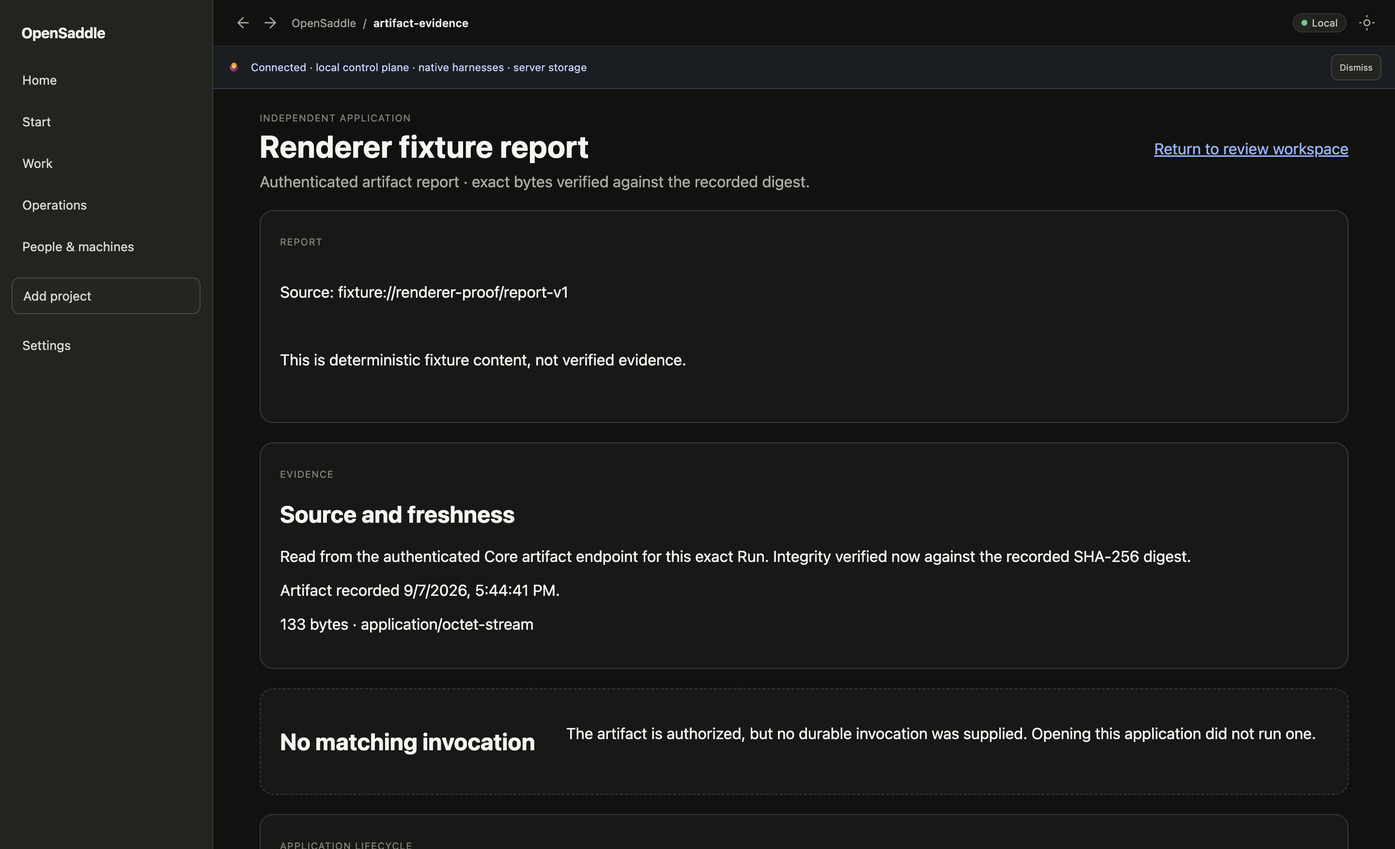
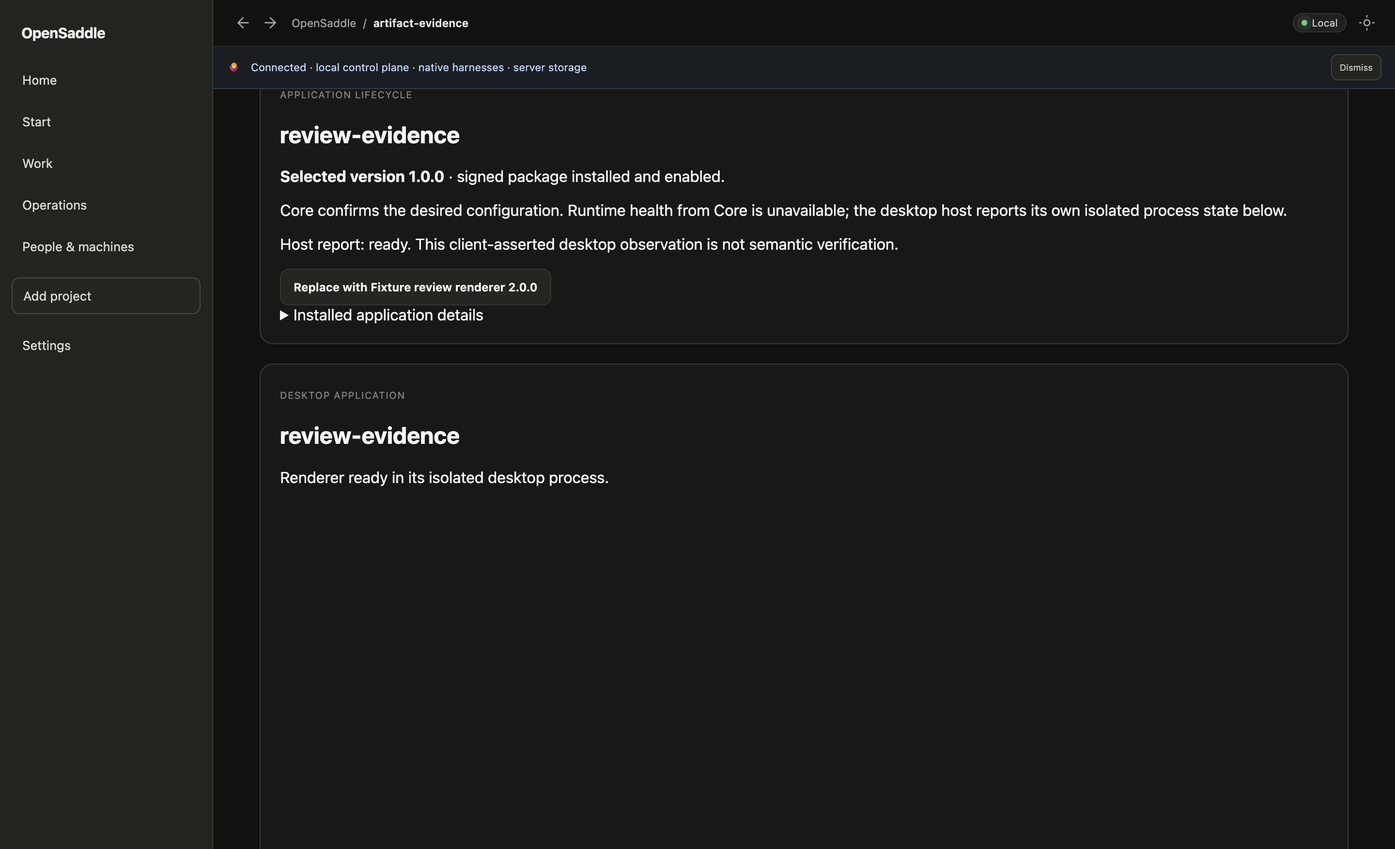
Recover renderer host observations safely

diff --git a/src/applications/CanonicalRendererLifecycle.tsx b/src/applications/CanonicalRendererLifecycle.tsx
@@ -18,14 +18,22 @@ type Ready = {
   hostGeneration?: number
   reportedHostState?: 'loading' | 'ready' | 'error'
   reportedHostError?: string
+  hostRestart?: number
   allowStateTransfer: boolean
   stateNotice?: string
   initialState?: ApplicationState
 }
 type State = { kind: 'loading' } | { kind: 'unavailable'; reason: string } | ({ kind: 'ready' } & Ready)
+type HostReporter = { key: string; active: boolean; sequence: number; lastRequested?: 'loading' | 'ready' | 'error'; heartbeat?: ReturnType<typeof setTimeout>; session: Promise<{ session_id: string; report_token: string; next_sequence: number }>; chain: Promise<void>; report: (state: 'loading' | 'ready' | 'error', heartbeat?: boolean) => void }
 const samePackage = (a: { package_id: string; version: string; manifest_digest: string }, b: { package_id: string; version: string; manifest_digest: string }) => a.package_id === b.package_id && a.version === b.version && a.manifest_digest === b.manifest_digest
 const packageKey = (value: { package_id: string; version: string; manifest_digest: string }) => `${value.package_id}\0${value.version}\0${value.manifest_digest}`
 const errorText = (reason: unknown) => reason instanceof Error ? reason.message : String(reason)
+const hostObservationErrorText = (reason: unknown) => {
+  const detail = errorText(reason)
+  if (detail.includes('renderer_host_observation_stale')) return 'Core rejected a stale host report. Rechecking the current host session.'
+  if (detail.includes('renderer_host_session')) return 'The host observation session is no longer current. Rechecking authority.'
+  return detail
+}
 
 function replacementStateContract(current: ApplicationRendererDescriptor, candidate: ApplicationRendererCandidate, state?: ApplicationState) {
   try {
@@ -66,13 +74,16 @@ export function CanonicalRendererLifecycle({ client, resource, projection, conne
   const stateAuthority = useRef('')
   const activeRenderer = useRef<ApplicationRendererDescriptor | undefined>(undefined)
   const hostId = useRef(`desktop:${crypto.randomUUID()}`)
-  const observation = useRef<{ key: string; active: boolean; sequence: number; lastRequested?: 'loading' | 'ready' | 'error'; heartbeat?: ReturnType<typeof setTimeout>; session: Promise<{ session_id: string; report_token: string; next_sequence: number }>; chain: Promise<void>; report: (state: 'loading' | 'ready' | 'error', heartbeat?: boolean) => void } | undefined>(undefined)
+  const observation = useRef<HostReporter | undefined>(undefined)
+  const currentHostStatus = useRef<'loading' | 'ready' | 'error'>('loading')
+  const hostRestarts = useRef(0)
   const [state, setState] = useState<State>({ kind: 'loading' })
 
   const authorityKey = `${connectionKey}\0${resource.project_id}\0${resource.run_id}\0${resource.artifact_id}\0${resource.digest}\0${applicationId}\0${instanceId}`
   if (stateAuthority.current !== authorityKey) {
     stateAuthority.current = authorityKey
     rendererStates.current.clear()
+    hostRestarts.current = 0
   }
 
   const load = useCallback(async (previous?: Ready['previous'], restoreSnapshot = false) => {
@@ -115,39 +126,80 @@ export function CanonicalRendererLifecycle({ client, resource, projection, conne
   const observationKey = state.kind === 'ready' && state.hostGeneration
     ? `${authorityKey}\0${state.renderer.package_ref.package_id}\0${state.renderer.package_ref.version}\0${state.renderer.package_ref.manifest_digest}\0${state.environment.revision}\0${state.environment.definition_digest}\0${state.hostGeneration}`
     : ''
+  currentHostStatus.current = state.kind === 'ready' ? state.hostStatus : 'loading'
   useEffect(() => {
     if (!observationKey || state.kind !== 'ready' || !client.createRendererHostSession || !client.reportRendererHostObservation) return
     const captured = state
-    const reporter = {
-      key: observationKey,
-      active: true,
-      sequence: 0,
-      lastRequested: undefined as 'loading' | 'ready' | 'error' | undefined,
-      heartbeat: undefined as ReturnType<typeof setTimeout> | undefined,
-      session: client.createRendererHostSession(resource.project_id, { host_id: hostId.current, application_id: captured.renderer.application_id, instance_id: captured.renderer.instance_id, package_ref: captured.renderer.package_ref, environment_revision: captured.environment.revision, environment_definition_digest: captured.environment.definition_digest, generation: captured.hostGeneration! }),
-      chain: Promise.resolve(),
-      report: (_next: 'loading' | 'ready' | 'error', _heartbeat?: boolean) => {},
+    let cancelled = false
+    let retryTimer: ReturnType<typeof setTimeout> | undefined
+    const start = () => {
+      if (cancelled) return
+      const reporter: HostReporter = {
+        key: observationKey, active: true, sequence: 0,
+        session: client.createRendererHostSession!(resource.project_id, { host_id: hostId.current, application_id: captured.renderer.application_id, instance_id: captured.renderer.instance_id, package_ref: captured.renderer.package_ref, environment_revision: captured.environment.revision, environment_definition_digest: captured.environment.definition_digest, generation: captured.hostGeneration! }),
+        chain: Promise.resolve(), report: () => {},
+      }
+      reporter.report = (next, heartbeat = false) => {
+        if (!heartbeat && reporter.lastRequested === next) return
+        reporter.lastRequested = next
+        if (reporter.heartbeat) clearTimeout(reporter.heartbeat)
+        reporter.chain = reporter.chain.then(async () => {
+          const session = await reporter.session
+          if (!reporter.active || observation.current !== reporter) return
+          if (reporter.sequence === 0) reporter.sequence = session.next_sequence
+          const sequence = reporter.sequence
+          await client.reportRendererHostObservation!(session.session_id, session.report_token, { sequence, state: next, ...(next === 'error' ? { error_code: 'renderer_unavailable' } : {}) })
+          reporter.sequence = sequence + 1
+          if (!reporter.active || observation.current !== reporter) return
+          if (next !== 'ready' || currentHostStatus.current === 'ready') {
+            setState(value => value.kind === 'ready' && observationKey === reporter.key ? { ...value, reportedHostState: next, reportedHostError: undefined } : value)
+          }
+          if (next === 'ready') hostRestarts.current = 0
+          if (next === 'ready' && currentHostStatus.current === 'ready' && reporter.lastRequested === 'ready') {
+            reporter.heartbeat = setTimeout(() => {
+              if (currentHostStatus.current === 'ready' && reporter.lastRequested === 'ready') reporter.report('ready', true)
+            }, 10_000)
+          }
+        }).catch(reason => {
+          if (!reporter.active || observation.current !== reporter) return
+          if (reporter.heartbeat) clearTimeout(reporter.heartbeat)
+          setState(value => value.kind === 'ready' && observationKey === reporter.key ? { ...value, reportedHostState: undefined, reportedHostError: hostObservationErrorText(reason) } : value)
+          const failedSequence = reporter.sequence
+          const failedState = reporter.lastRequested!
+          const reconcile = async (attempt: number) => {
+            if (!reporter.active || observation.current !== reporter || currentHostStatus.current === 'error' || !client.rendererHostObservations) return
+            try {
+              const rows = await client.rendererHostObservations(resource.project_id)
+              const session = await reporter.session
+              const row = rows.items.find(item => item.session_id === session.session_id)
+              if (!row || row.state === 'unknown') {
+                reporter.active = false
+                const canRestart = hostRestarts.current < 1
+                if (canRestart) hostRestarts.current++
+                setState(value => value.kind === 'ready' && observationKey === reporter.key ? { ...value, ...(canRestart ? { hostRestart: (value.hostRestart ?? 0) + 1 } : {}), reportedHostState: undefined, reportedHostError: canRestart ? 'The prior host observation session expired. Restarting the isolated renderer.' : 'The host observation session remains unavailable. Retry by reopening this application.' } : value)
+                return
+              }
+              if (row.sequence >= failedSequence) {
+                reporter.sequence = row.sequence + 1
+                setState(value => value.kind === 'ready' && observationKey === reporter.key ? { ...value, reportedHostState: failedState, reportedHostError: undefined } : value)
+                if (failedState === 'ready') reporter.heartbeat = setTimeout(() => reporter.report('ready', true), 10_000)
+                return
+              }
+              reporter.chain = Promise.resolve()
+              reporter.lastRequested = undefined
+              reporter.report(failedState, true)
+            } catch {
+              if (attempt < 3 && reporter.active && observation.current === reporter) retryTimer = setTimeout(() => void reconcile(attempt + 1), attempt * 1_000)
+            }
+          }
+          retryTimer = setTimeout(() => void reconcile(1), 1_000)
+        })
+      }
+      observation.current = reporter
+      reporter.report(currentHostStatus.current)
     }
-    reporter.report = (next, heartbeat = false) => {
-      if (!heartbeat && reporter.lastRequested === next) return
-      reporter.lastRequested = next
-      if (reporter.heartbeat) clearTimeout(reporter.heartbeat)
-      reporter.chain = reporter.chain.then(async () => {
-        const session = await reporter.session
-        if (!reporter.active || observation.current !== reporter) return
-        if (reporter.sequence === 0) reporter.sequence = session.next_sequence
-        await client.reportRendererHostObservation!(session.session_id, session.report_token, { sequence: reporter.sequence++, state: next, ...(next === 'error' ? { error_code: 'renderer_unavailable' } : {}) })
-        if (!reporter.active || observation.current !== reporter) return
-        setState(value => value.kind === 'ready' && observationKey === reporter.key ? { ...value, reportedHostState: next, reportedHostError: undefined } : value)
-        if (next === 'ready') reporter.heartbeat = setTimeout(() => reporter.report('ready', true), 10_000)
-      }).catch(reason => {
-        if (!reporter.active || observation.current !== reporter) return
-        setState(value => value.kind === 'ready' && observationKey === reporter.key ? { ...value, reportedHostError: errorText(reason) } : value)
-      })
-    }
-    observation.current = reporter
-    reporter.report('loading')
-    return () => { reporter.active = false; if (reporter.heartbeat) clearTimeout(reporter.heartbeat); if (observation.current === reporter) observation.current = undefined }
+    start()
+    return () => { cancelled = true; if (retryTimer) clearTimeout(retryTimer); const reporter = observation.current; if (reporter?.key === observationKey) { reporter.active = false; if (reporter.heartbeat) clearTimeout(reporter.heartbeat); observation.current = undefined } }
   }, [client, observationKey, resource.project_id])
   useEffect(() => {
     const reporter = observation.current
@@ -239,6 +291,6 @@ export function CanonicalRendererLifecycle({ client, resource, projection, conne
   const alternatives = state.candidates.filter(candidate => candidate.available.available && !samePackage({ package_id: candidate.package_id, version: candidate.package_version, manifest_digest: candidate.manifest_digest }, state.renderer.package_ref))
   return <>
     <section className="cc-panel"><span className="eyebrow">Application lifecycle</span><h2>{state.renderer.application_id}</h2><p><strong>Selected version {state.renderer.package_ref.version}</strong> · signed package installed and enabled.</p><p>Core confirms the desired configuration. Runtime health from Core is unavailable; the desktop host reports its own isolated process state below.</p>{state.reportedHostState && <p role="status">Host report: {state.reportedHostState}. This client-asserted desktop observation is not semantic verification.</p>}{state.reportedHostError && <p role="alert">Host observation unavailable: {state.reportedHostError}</p>}{state.stateNotice && <p role="status">{state.stateNotice}</p>}{alternatives.length > 0 && <div className="page-actions">{alternatives.map(candidate => <button key={`${candidate.package_id}:${candidate.package_version}`} className="secondary-btn" disabled={state.pending} onClick={() => void replace(candidate)}>Replace with {candidate.title} {candidate.package_version}</button>)}</div>}{state.hostStatus === 'error' && state.previous && <div role="alert"><p>The replacement did not become ready in the desktop host.</p><button className="primary-btn" disabled={state.pending} onClick={() => void rollback()}>Restore previous version</button></div>}{state.error && <p role="alert">{state.error}</p>}<details><summary>Installed application details</summary><p>Environment revision {state.environment.revision} · package <code>{state.renderer.package_ref.package_id}@{state.renderer.package_ref.version}</code></p>{state.candidates.map(candidate => <p key={`${candidate.package_id}:${candidate.package_version}`}><code>{candidate.package_version}</code> · {candidate.enablement?.version === candidate.package_version && candidate.enablement.status === 'enabled' ? 'enabled' : 'installed'} · Core runtime health unavailable</p>)}</details></section>
-    <DesktopApplicationHost client={client} projectId={resource.project_id} manifest={state.renderer} connectionKey={connectionKey} projection={projection} onStatus={observeHostStatus} onState={observeRendererState} initialState={state.initialState} allowStateTransfer={state.allowStateTransfer} />
+    <DesktopApplicationHost client={client} projectId={resource.project_id} manifest={state.renderer} connectionKey={connectionKey} projection={projection} onStatus={observeHostStatus} onState={observeRendererState} initialState={state.initialState} allowStateTransfer={state.allowStateTransfer} restartGeneration={state.hostRestart ?? 0} />
   </>
 }

diff --git a/src/applications/CanonicalRendererLifecycle.test.tsx b/src/applications/CanonicalRendererLifecycle.test.tsx
@@ -114,12 +114,20 @@ test('mounted replacement validates and freezes the actual saved state before en
 
 test('desktop lifecycle reports loading, ready, and error with the exact native generation', async () => {
   const oldWindow = globalThis.window
+  const originalSetTimeout = globalThis.setTimeout
+  const heartbeats: Array<() => void> = []
+  globalThis.setTimeout = ((handler: TimerHandler, delay?: number, ...args: any[]) => {
+    if (delay === 10_000) { heartbeats.push(() => typeof handler === 'function' && handler(...args)); return 999_999 as any }
+    return originalSetTimeout(handler, delay, ...args)
+  }) as typeof setTimeout
   const fragment = '<p>health renderer</p>'
   const contentDigest = createHash('sha256').update(fragment).digest('hex')
   const current = { ...renderer('1'), content_digest: contentDigest, size: fragment.length }
   const listeners: Array<(event: any) => void> = []
   const requests: any[] = []
   const reports: Array<{ sequence: number; state: string; error_code?: string }> = []
+  let releaseReady!: () => void
+  const readyAck = new Promise<void>(resolve => { releaseReady = resolve })
   Object.assign(globalThis, { window: { opensaddleDesktop: true, opensaddle: {
     onApplicationRendererEvent: (listener: (event: any) => void) => { listeners.push(listener); return () => {} },
     openApplicationRenderer: async (request: any) => { requests.push(request); return { identity: [request.connectionKey, request.instanceId, request.generation, request.packageRef.package_id, request.packageRef.version, request.packageRef.manifest_digest, request.contentDigest, request.projection.resource.project_id, request.projection.resource.run_id, request.projection.resource.artifact_id, request.projection.resource.digest].join('\0'), rendererPid: 2 } },
@@ -132,7 +140,7 @@ test('desktop lifecycle reports loading, ready, and error with the exact native 
     applicationRendererContent: async () => new Response(fragment, { headers: { 'Content-Type': current.media_type, 'Content-Length': String(fragment.length) } }),
     environment: async () => environment(1, '1'),
     createRendererHostSession: async () => ({ session_id: 'rhs_1', report_token: 'opaque', expires_at: 'later', next_sequence: 4, host_identity_authority: 'client_asserted' as const }),
-    reportRendererHostObservation: async (_session: string, _token: string, input: { sequence: number; state: 'loading' | 'ready' | 'error'; error_code?: string }) => { reports.push(input); return {} },
+    reportRendererHostObservation: async (_session: string, _token: string, input: { sequence: number; state: 'loading' | 'ready' | 'error'; error_code?: string }) => { reports.push(input); if (input.state === 'ready') await readyAck; return {} },
   } as unknown as MalleableShellClient
   let view!: ReactTestRenderer
   await act(async () => { view = create(<CanonicalRendererLifecycle client={client} resource={resource} projection={projection} connectionKey="owner" />, { createNodeMock: () => ({ getBoundingClientRect: () => ({ x: 0, y: 0, width: 500, height: 320 }) }) }) })
@@ -142,13 +150,104 @@ test('desktop lifecycle reports loading, ready, and error with the exact native 
   await act(async () => listeners[0]({ identity, instanceId: request.instanceId, generation: request.generation, kind: 'ready' }))
   await until(() => reports.some(value => value.state === 'ready'))
   await act(async () => listeners[0]({ identity, instanceId: request.instanceId, generation: request.generation, kind: 'error', error: 'renderer_crashed' }))
+  releaseReady()
   await until(() => reports.some(value => value.state === 'error'))
   assert.deepEqual(reports.slice(0, 3), [
     { sequence: 4, state: 'loading' },
     { sequence: 5, state: 'ready' },
     { sequence: 6, state: 'error', error_code: 'renderer_unavailable' },
   ])
+  for (const heartbeat of heartbeats) heartbeat()
+  await act(async () => { await Promise.resolve() })
+  assert.equal(reports.length, 3)
   assert.match(JSON.stringify(view.toJSON()), /client-asserted desktop observation is not semantic verification/i)
+  await act(async () => view.unmount())
+  globalThis.setTimeout = originalSetTimeout
+  globalThis.window = oldWindow
+})
+
+test('an uncertain heartbeat clears stale ready and recovers through a new bounded session', async () => {
+  const oldWindow = globalThis.window
+  const fragment = '<p>health renderer</p>'
+  const contentDigest = createHash('sha256').update(fragment).digest('hex')
+  const current = { ...renderer('1'), content_digest: contentDigest, size: fragment.length }
+  const listeners: Array<(event: any) => void> = []
+  const requests: any[] = []
+  let sessions = 0
+  const reports: Array<{ session: string; sequence: number; state: string }> = []
+  Object.assign(globalThis, { window: { opensaddleDesktop: true, opensaddle: {
+    onApplicationRendererEvent: (listener: (event: any) => void) => { listeners.push(listener); return () => {} },
+    openApplicationRenderer: async (request: any) => { requests.push(request); return { identity: [request.connectionKey, request.instanceId, request.generation, request.packageRef.package_id, request.packageRef.version, request.packageRef.manifest_digest, request.contentDigest, request.projection.resource.project_id, request.projection.resource.run_id, request.projection.resource.artifact_id, request.projection.resource.digest].join('\0'), rendererPid: 2 } },
+    closeApplicationRenderer: async () => true,
+    setApplicationRendererBounds: async () => true,
+  } } })
+  const client = {
+    applicationRenderers: async () => [current], applicationRendererCandidates: async () => [candidate('1')],
+    applicationRendererContent: async () => new Response(fragment, { headers: { 'Content-Type': current.media_type, 'Content-Length': String(fragment.length) } }), environment: async () => environment(1, '1'),
+    createRendererHostSession: async () => { sessions++; return { session_id: 'old', report_token: 'old-token', expires_at: 'later', next_sequence: 7, host_identity_authority: 'client_asserted' as const } },
+    reportRendererHostObservation: async (session: string, _token: string, input: { sequence: number; state: 'loading' | 'ready' | 'error' }) => { reports.push({ session, ...input }); if (session === 'old' && input.sequence === 8) throw Error('temporary offline after commit'); return {} },
+    rendererHostObservations: async () => ({ schema_version: 'opensaddle.renderer-host-observations.v1' as const, project_id: 'P', generated_at: 'now', authority: 'host_reported' as const, semantic_correctness: 'not_verified' as const, items: [{ session_id: 'old', project_id: 'P', subject: 'owner', host_id: 'desktop', application_id: 'review-evidence', instance_id: 'review-main', package_ref: current.package_ref, environment_revision: 1, environment_definition_digest: environment(1, '1').definition_digest, generation: 1, state: 'ready' as const, error_code: null, sequence: 8, updated_at: 'now', expires_at: 'later' }] }),
+  } as unknown as MalleableShellClient
+  let view!: ReactTestRenderer
+  await act(async () => { view = create(<CanonicalRendererLifecycle client={client} resource={resource} projection={projection} connectionKey="owner" />, { createNodeMock: () => ({ getBoundingClientRect: () => ({ x: 0, y: 0, width: 500, height: 320 }) }) }) })
+  await until(() => requests.length === 1 && reports.length === 1)
+  const request = requests[0]
+  const identity = [request.connectionKey, request.instanceId, request.generation, request.packageRef.package_id, request.packageRef.version, request.packageRef.manifest_digest, request.contentDigest, request.projection.resource.project_id, request.projection.resource.run_id, request.projection.resource.artifact_id, request.projection.resource.digest].join('\0')
+  await act(async () => listeners[0]({ identity, instanceId: request.instanceId, generation: request.generation, kind: 'ready' }))
+  await until(() => reports.some(value => value.session === 'old' && value.sequence === 8))
+  assert.doesNotMatch(JSON.stringify(view.toJSON()), /Host report: ready/)
+  assert.match(JSON.stringify(view.toJSON()), /Host observation unavailable:.*temporary offline after commit/)
+  await act(async () => { await new Promise(resolve => setTimeout(resolve, 1_050)) })
+  await until(() => JSON.stringify(view.toJSON()).includes('Host report'))
+  assert.match(JSON.stringify(view.toJSON()), /Host report:.*ready/)
+  assert.equal(reports.filter(value => value.session === 'old' && value.sequence === 8).length, 1)
+  assert.equal(sessions, 1)
+  await act(async () => view.unmount())
+  globalThis.window = oldWindow
+})
+
+test('an expired observation session restarts the native host with a new generation', async () => {
+  const oldWindow = globalThis.window
+  const fragment = '<p>health renderer</p>'
+  const contentDigest = createHash('sha256').update(fragment).digest('hex')
+  const current = { ...renderer('1'), content_digest: contentDigest, size: fragment.length }
+  const listeners: Array<(event: any) => void> = []
+  const requests: any[] = []
+  let sessions = 0
+  const reports: Array<{ session: string; sequence: number; state: string }> = []
+  Object.assign(globalThis, { window: { opensaddleDesktop: true, opensaddle: {
+    onApplicationRendererEvent: (listener: (event: any) => void) => { listeners.push(listener); return () => {} },
+    openApplicationRenderer: async (request: any) => { requests.push(request); return { identity: [request.connectionKey, request.instanceId, request.generation, request.packageRef.package_id, request.packageRef.version, request.packageRef.manifest_digest, request.contentDigest, request.projection.resource.project_id, request.projection.resource.run_id, request.projection.resource.artifact_id, request.projection.resource.digest].join('\0'), rendererPid: 2 } },
+    closeApplicationRenderer: async () => true,
+    setApplicationRendererBounds: async () => true,
+  } } })
+  const client = {
+    applicationRenderers: async () => [current], applicationRendererCandidates: async () => [candidate('1')],
+    applicationRendererContent: async () => new Response(fragment, { headers: { 'Content-Type': current.media_type, 'Content-Length': String(fragment.length) } }), environment: async () => environment(1, '1'),
+    createRendererHostSession: async () => ({ session_id: `session-${++sessions}`, report_token: `token-${sessions}`, expires_at: 'later', next_sequence: 1, host_identity_authority: 'client_asserted' as const }),
+    reportRendererHostObservation: async (session: string, _token: string, input: { sequence: number; state: 'loading' | 'ready' | 'error' }) => { reports.push({ session, ...input }); if (session === 'session-1' && input.state === 'ready') throw Error('session expired'); if (session === 'session-2' && input.state === 'error') throw Error('authority revoked'); return {} },
+    rendererHostObservations: async () => ({ schema_version: 'opensaddle.renderer-host-observations.v1' as const, project_id: 'P', generated_at: 'now', authority: 'host_reported' as const, semantic_correctness: 'not_verified' as const, items: [{ session_id: 'session-1', project_id: 'P', subject: 'owner', host_id: 'desktop', application_id: 'review-evidence', instance_id: 'review-main', package_ref: current.package_ref, environment_revision: 1, environment_definition_digest: environment(1, '1').definition_digest, generation: 1, state: 'unknown' as const, error_code: null, sequence: 1, updated_at: 'now', expires_at: 'past', reason: 'session_expired_or_selection_changed' }] }),
+  } as unknown as MalleableShellClient
+  let view!: ReactTestRenderer
+  await act(async () => { view = create(<CanonicalRendererLifecycle client={client} resource={resource} projection={projection} connectionKey="owner" />, { createNodeMock: () => ({ getBoundingClientRect: () => ({ x: 0, y: 0, width: 500, height: 320 }) }) }) })
+  await until(() => requests.length === 1 && reports.some(value => value.state === 'loading'))
+  const first = requests[0]
+  const firstIdentity = [first.connectionKey, first.instanceId, first.generation, first.packageRef.package_id, first.packageRef.version, first.packageRef.manifest_digest, first.contentDigest, first.projection.resource.project_id, first.projection.resource.run_id, first.projection.resource.artifact_id, first.projection.resource.digest].join('\0')
+  await act(async () => listeners[0]({ identity: firstIdentity, instanceId: first.instanceId, generation: first.generation, kind: 'ready' }))
+  await act(async () => { await new Promise(resolve => setTimeout(resolve, 1_050)) })
+  await until(() => requests.length === 2 && sessions === 2)
+  assert.notEqual(requests[1].generation, first.generation)
+  assert.equal(reports.filter(value => value.session === 'session-1' && value.state === 'ready').length, 1)
+  assert.ok(reports.some(value => value.session === 'session-2' && value.state === 'loading'))
+  const second = requests[1]
+  const secondIdentity = [second.connectionKey, second.instanceId, second.generation, second.packageRef.package_id, second.packageRef.version, second.packageRef.manifest_digest, second.contentDigest, second.projection.resource.project_id, second.projection.resource.run_id, second.projection.resource.artifact_id, second.projection.resource.digest].join('\0')
+  await act(async () => listeners[1]({ identity: secondIdentity, instanceId: second.instanceId, generation: second.generation, kind: 'ready' }))
+  await until(() => reports.some(value => value.session === 'session-2' && value.state === 'ready'))
+  await act(async () => listeners[1]({ identity: secondIdentity, instanceId: second.instanceId, generation: second.generation, kind: 'error' }))
+  await until(() => reports.some(value => value.session === 'session-2' && value.state === 'error'))
+  await act(async () => { await new Promise(resolve => setTimeout(resolve, 20)) })
+  assert.equal(sessions, 2)
+  assert.match(JSON.stringify(view.toJSON()), /Host observation unavailable:.*authority revoked/)
   await act(async () => view.unmount())
   globalThis.window = oldWindow
 })

diff --git a/src/applications/DesktopApplicationHost.test.tsx b/src/applications/DesktopApplicationHost.test.tsx
@@ -13,4 +13,4 @@ const until=async(check:()=>boolean)=>{for(let i=0;i<50&&!check();i++)await new 
 const client=()=>({applicationRendererContent:async()=>new Response(fragment,{headers:{'Content-Type':manifest.media_type,'Content-Length':String(fragment.length)}})})as unknown as MalleableShellClient
 test('desktop ready event registered before open resolution is retained',async()=>{const oldWindow=globalThis.window;let listener:(event:any)=>void=()=>{};Object.assign(globalThis,{window:{opensaddleDesktop:true,opensaddle:{onApplicationRendererEvent:(next:any)=>{listener=next;return()=>{}},openApplicationRenderer:async(request:any)=>{listener({identity:[request.connectionKey,request.instanceId,request.generation,request.packageRef.package_id,request.packageRef.version,request.packageRef.manifest_digest,request.contentDigest,request.projection.resource.project_id,request.projection.resource.run_id,request.projection.resource.artifact_id,request.projection.resource.digest].join('\0'),instanceId:'review-main',generation:request.generation,kind:'ready'});return{identity:'opened',rendererPid:2}},closeApplicationRenderer:async()=>true,setApplicationRendererBounds:async()=>true}}});let view:any;await act(async()=>{view=create(<DesktopApplicationHost client={client()} projectId="p" manifest={manifest} projection={projection} connectionKey="c"/>,{createNodeMock:()=>({getBoundingClientRect:()=>({x:0,y:0,width:500,height:360})})})});await act(async()=>{await new Promise(resolve=>setTimeout(resolve,20))});assert.match(JSON.stringify(view.toJSON()),/Renderer ready/);await act(async()=>view.unmount());globalThis.window=oldWindow})
 test('desktop unmount closes the exact pending generation identity',async()=>{const oldWindow=globalThis.window,closed:string[]=[];Object.assign(globalThis,{window:{opensaddleDesktop:true,opensaddle:{onApplicationRendererEvent:()=>()=>{},openApplicationRenderer:async()=>new Promise(()=>{}),closeApplicationRenderer:async(identity:string)=>{closed.push(identity);return true},setApplicationRendererBounds:async()=>true}}});let view:any;await act(async()=>{view=create(<DesktopApplicationHost client={client()} projectId="p" manifest={manifest} projection={projection} connectionKey="private-c"/>,{createNodeMock:()=>({getBoundingClientRect:()=>({x:0,y:0,width:500,height:360})})})});await act(async()=>view.unmount());assert.equal(closed.length,1);assert.match(closed[0]!,/^private-c\0review-main\0/);globalThis.window=oldWindow})
-test('desktop replacement fences generations and preserves state only for signed compatibility on the same resource',async()=>{const oldWindow=globalThis.window,fragment2='<p>renderer two</p>',manifest2={...manifest,content_digest:createHash('sha256').update(fragment2).digest('hex'),size:fragment2.length,package_ref:{...manifest.package_ref,version:'2'},state_schema_version:2,state_schema:{type:'object' as const,additionalProperties:false as const,maxProperties:3,properties:{search:{type:'string' as const,maxLength:200},pinned:{type:'boolean' as const},layout:{type:'string' as const,maxLength:12}},required:['search','layout']},state_migrations:[{from_version:1,to_version:2,operations:[{op:'rename' as const,from:'filter',to:'search'},{op:'set_default' as const,path:'layout',value:'compact'}]}]};const listeners:Array<(event:any)=>void>=[],requests:any[]=[];Object.assign(globalThis,{window:{opensaddleDesktop:true,opensaddle:{onApplicationRendererEvent:(next:any)=>{listeners.push(next);return()=>{}},openApplicationRenderer:async(request:any)=>{requests.push(request);return{identity:[request.connectionKey,request.instanceId,request.generation,request.packageRef.package_id,request.packageRef.version,request.packageRef.manifest_digest,request.contentDigest,request.projection.resource.project_id,request.projection.resource.run_id,request.projection.resource.artifact_id,request.projection.resource.digest].join('\0'),rendererPid:2}},closeApplicationRenderer:async()=>true,setApplicationRendererBounds:async()=>true}}});const transport={applicationRendererContent:async(_project:string,next:ApplicationRendererDescriptor)=>new Response(next.package_ref.version==='2'?fragment2:fragment,{headers:{'Content-Type':next.media_type,'Content-Length':String(next.size)}})}as unknown as MalleableShellClient;const event=(request:any,state:any)=>({identity:[request.connectionKey,request.instanceId,request.generation,request.packageRef.package_id,request.packageRef.version,request.packageRef.manifest_digest,request.contentDigest,request.projection.resource.project_id,request.projection.resource.run_id,request.projection.resource.artifact_id,request.projection.resource.digest].join('\0'),instanceId:request.instanceId,generation:request.generation,kind:'state',state});let view:any;await act(async()=>{view=create(<DesktopApplicationHost client={transport} projectId="p" manifest={manifest} projection={projection} connectionKey="c"/>,{createNodeMock:()=>({getBoundingClientRect:()=>({x:0,y:0,width:500,height:360})})})});await until(()=>requests.length>=1);listeners[0](event(requests[0],{filter:'open'}));await act(async()=>{view.update(<DesktopApplicationHost client={transport} projectId="p" manifest={manifest2} projection={projection} connectionKey="c" allowStateTransfer/>)});await until(()=>requests.length>=2);assert.deepEqual(requests[1].state,{search:'open',layout:'compact'});listeners[1](event(requests[1],{search:'current',layout:'comfortable'}));listeners[0](event(requests[0],{filter:'stale'}));await act(async()=>{view.update(<DesktopApplicationHost client={transport} projectId="p" manifest={manifest} projection={projection} connectionKey="c" allowStateTransfer/>)});await until(()=>requests.length>=3);assert.deepEqual(requests[2].state,{filter:'open'});assert.equal(new Set(requests.slice(0,3).map(item=>item.generation)).size,3);const other={...projection,resource:{...projection.resource,artifact_id:'other'}};await act(async()=>{view.update(<DesktopApplicationHost client={transport} projectId="p" manifest={manifest} projection={other} connectionKey="c" allowStateTransfer/>)});await until(()=>requests.length>=4);assert.equal(requests[3].state,undefined);await act(async()=>view.unmount());globalThis.window=oldWindow})
+test('desktop replacement fences generations and preserves state only for signed compatibility on the same resource',async()=>{const oldWindow=globalThis.window,fragment2='<p>renderer two</p>',manifest2={...manifest,content_digest:createHash('sha256').update(fragment2).digest('hex'),size:fragment2.length,package_ref:{...manifest.package_ref,version:'2'},state_schema_version:2,state_schema:{type:'object' as const,additionalProperties:false as const,maxProperties:3,properties:{search:{type:'string' as const,maxLength:200},pinned:{type:'boolean' as const},layout:{type:'string' as const,maxLength:12}},required:['search','layout']},state_migrations:[{from_version:1,to_version:2,operations:[{op:'rename' as const,from:'filter',to:'search'},{op:'set_default' as const,path:'layout',value:'compact'}]}]};const listeners:Array<(event:any)=>void>=[],requests:any[]=[];Object.assign(globalThis,{window:{opensaddleDesktop:true,opensaddle:{onApplicationRendererEvent:(next:any)=>{listeners.push(next);return()=>{}},openApplicationRenderer:async(request:any)=>{requests.push(request);return{identity:[request.connectionKey,request.instanceId,request.generation,request.packageRef.package_id,request.packageRef.version,request.packageRef.manifest_digest,request.contentDigest,request.projection.resource.project_id,request.projection.resource.run_id,request.projection.resource.artifact_id,request.projection.resource.digest].join('\0'),rendererPid:2}},closeApplicationRenderer:async()=>true,setApplicationRendererBounds:async()=>true}}});const transport={applicationRendererContent:async(_project:string,next:ApplicationRendererDescriptor)=>new Response(next.package_ref.version==='2'?fragment2:fragment,{headers:{'Content-Type':next.media_type,'Content-Length':String(next.size)}})}as unknown as MalleableShellClient;const event=(request:any,state:any)=>({identity:[request.connectionKey,request.instanceId,request.generation,request.packageRef.package_id,request.packageRef.version,request.packageRef.manifest_digest,request.contentDigest,request.projection.resource.project_id,request.projection.resource.run_id,request.projection.resource.artifact_id,request.projection.resource.digest].join('\0'),instanceId:request.instanceId,generation:request.generation,kind:'state',state});let view:any;await act(async()=>{view=create(<DesktopApplicationHost client={transport} projectId="p" manifest={manifest} projection={projection} connectionKey="c"/>,{createNodeMock:()=>({getBoundingClientRect:()=>({x:0,y:0,width:500,height:360})})})});await until(()=>requests.length>=1);listeners[0](event(requests[0],{filter:'open'}));await act(async()=>{view.update(<DesktopApplicationHost client={transport} projectId="p" manifest={manifest2} projection={projection} connectionKey="c" allowStateTransfer/>)});await until(()=>requests.length>=2);assert.deepEqual(requests[1].state,{search:'open',layout:'compact'});listeners[1](event(requests[1],{search:'current',layout:'comfortable'}));listeners[0](event(requests[0],{filter:'stale'}));await act(async()=>{view.update(<DesktopApplicationHost client={transport} projectId="p" manifest={manifest} projection={projection} connectionKey="c" allowStateTransfer/>)});await until(()=>requests.length>=3);assert.deepEqual(requests[2].state,{filter:'open'});listeners[2](event(requests[2],{filter:'restored'}));await act(async()=>{view.update(<DesktopApplicationHost client={transport} projectId="p" manifest={manifest} projection={projection} connectionKey="c" allowStateTransfer restartGeneration={1}/>)});await until(()=>requests.length>=4);assert.deepEqual(requests[3].state,{filter:'restored'});assert.equal(new Set(requests.slice(0,4).map(item=>item.generation)).size,4);const other={...projection,resource:{...projection.resource,artifact_id:'other'}};await act(async()=>{view.update(<DesktopApplicationHost client={transport} projectId="p" manifest={manifest} projection={other} connectionKey="c" allowStateTransfer restartGeneration={1}/>)});await until(()=>requests.length>=5);assert.equal(requests[4].state,undefined);await act(async()=>view.unmount());globalThis.window=oldWindow})

diff --git a/src/applications/DesktopApplicationHost.tsx b/src/applications/DesktopApplicationHost.tsx
@@ -4,7 +4,7 @@ import{compatibleApplicationState,readExactRenderer,validateRendererState}from'.
 import type{ApplicationRendererDescriptor,MalleableShellClient}from'../services/contracts'
 void React
 let nextDesktopGeneration=0
-export function DesktopApplicationHost({client,projectId,manifest,projection,connectionKey,onStatus,onState,initialState,allowStateTransfer=false}:{client:MalleableShellClient;projectId:string;manifest:ApplicationRendererDescriptor;projection:ApplicationProjection;connectionKey:string;onStatus?:(status:'loading'|'ready'|'error',generation:number)=>void;onState?:(state:Record<string,string|number|boolean>)=>void;initialState?:Record<string,string|number|boolean>;allowStateTransfer?:boolean}){const loadKey=useMemo(()=>[connectionKey,projectId,projection.resource.run_id,projection.resource.artifact_id,projection.resource.digest,manifest.package_ref.version,manifest.package_ref.manifest_digest,manifest.content_digest].join('\0'),[connectionKey,projectId,projection.resource.run_id,projection.resource.artifact_id,projection.resource.digest,manifest]),holder=useRef<HTMLDivElement>(null),activation=useRef({key:'',generation:0}),identity=useRef<string|undefined>(undefined),savedState=useRef<Record<string,string|number|boolean>|undefined>(undefined),snapshots=useRef(new Map<string,Record<string,string|number|boolean>>()),previous=useRef({connectionKey,projectId,resourceKey:[projection.resource.run_id,projection.resource.artifact_id,projection.resource.digest].join('\0'),applicationId:manifest.application_id,instanceId:manifest.instance_id,manifest,packageKey:[manifest.package_ref.package_id,manifest.package_ref.version,manifest.package_ref.manifest_digest].join('\0')}),[status,setStatus]=useState<{key:string;kind:'loading'|'ready'|'error'}>({key:loadKey,kind:'loading'});if(activation.current.key!==loadKey)activation.current={key:loadKey,generation:++nextDesktopGeneration};const expectedIdentity=[connectionKey,manifest.instance_id,activation.current.generation,manifest.package_ref.package_id,manifest.package_ref.version,manifest.package_ref.manifest_digest,manifest.content_digest,projection.resource.project_id,projection.resource.run_id,projection.resource.artifact_id,projection.resource.digest].join('\0')
+export function DesktopApplicationHost({client,projectId,manifest,projection,connectionKey,onStatus,onState,initialState,allowStateTransfer=false,restartGeneration=0}:{client:MalleableShellClient;projectId:string;manifest:ApplicationRendererDescriptor;projection:ApplicationProjection;connectionKey:string;onStatus?:(status:'loading'|'ready'|'error',generation:number)=>void;onState?:(state:Record<string,string|number|boolean>)=>void;initialState?:Record<string,string|number|boolean>;allowStateTransfer?:boolean;restartGeneration?:number}){const loadKey=useMemo(()=>[connectionKey,projectId,projection.resource.run_id,projection.resource.artifact_id,projection.resource.digest,manifest.package_ref.version,manifest.package_ref.manifest_digest,manifest.content_digest,restartGeneration].join('\0'),[connectionKey,projectId,projection.resource.run_id,projection.resource.artifact_id,projection.resource.digest,manifest,restartGeneration]),holder=useRef<HTMLDivElement>(null),activation=useRef({key:'',generation:0}),identity=useRef<string|undefined>(undefined),savedState=useRef<Record<string,string|number|boolean>|undefined>(undefined),snapshots=useRef(new Map<string,Record<string,string|number|boolean>>()),previous=useRef({connectionKey,projectId,resourceKey:[projection.resource.run_id,projection.resource.artifact_id,projection.resource.digest].join('\0'),applicationId:manifest.application_id,instanceId:manifest.instance_id,manifest,packageKey:[manifest.package_ref.package_id,manifest.package_ref.version,manifest.package_ref.manifest_digest].join('\0')}),[status,setStatus]=useState<{key:string;kind:'loading'|'ready'|'error'}>({key:loadKey,kind:'loading'});if(activation.current.key!==loadKey)activation.current={key:loadKey,generation:++nextDesktopGeneration};const expectedIdentity=[connectionKey,manifest.instance_id,activation.current.generation,manifest.package_ref.package_id,manifest.package_ref.version,manifest.package_ref.manifest_digest,manifest.content_digest,projection.resource.project_id,projection.resource.run_id,projection.resource.artifact_id,projection.resource.digest].join('\0')
  const resourceKey=[projection.resource.run_id,projection.resource.artifact_id,projection.resource.digest].join('\0'),packageKey=[manifest.package_ref.package_id,manifest.package_ref.version,manifest.package_ref.manifest_digest].join('\0');const compatible=previous.current.connectionKey===connectionKey&&previous.current.projectId===projectId&&previous.current.resourceKey===resourceKey&&previous.current.applicationId===manifest.application_id&&previous.current.instanceId===manifest.instance_id&&(previous.current.packageKey===packageKey||allowStateTransfer);if(!compatible){savedState.current=undefined;snapshots.current.clear()}else if(previous.current.packageKey!==packageKey){savedState.current=snapshots.current.get(packageKey)??validateRendererState(initialState,manifest.state_schema)??(savedState.current?compatibleApplicationState(previous.current.manifest as unknown as ExecutableRendererManifest,manifest as unknown as ExecutableRendererManifest,savedState.current):undefined)};previous.current={connectionKey,projectId,resourceKey,applicationId:manifest.application_id,instanceId:manifest.instance_id,manifest,packageKey}
  useLayoutEffect(()=>{const current=activation.current.generation,desktop=window.opensaddle;let disposed=false,observer:ResizeObserver|undefined,unsubscribe:(()=>void)|undefined;identity.current=undefined;setStatus({key:loadKey,kind:'loading'});if(!desktop?.openApplicationRenderer||!client.applicationRendererContent){setStatus({key:loadKey,kind:'error'});return}const bounds=()=>{const rect=holder.current?.getBoundingClientRect();return rect&&{x:rect.x,y:rect.y,width:rect.width,height:rect.height}},position=()=>{const next=bounds(),active=identity.current;if(active&&next)void desktop.setApplicationRendererBounds(active,next)}
  unsubscribe=desktop.onApplicationRendererEvent(event=>{if(disposed||event.identity!==expectedIdentity||event.instanceId!==manifest.instance_id||event.generation!==current)return;if(event.kind==='ready')setStatus({key:loadKey,kind:'ready'});else if(event.kind==='error')setStatus({key:loadKey,kind:'error'});else{const next=validateRendererState(event.state,manifest.state_schema);if(next){savedState.current=next;snapshots.current.set(packageKey,next);onState?.(next);if(snapshots.current.size>4)snapshots.current.delete(snapshots.current.keys().next().value!)}}});addEventListener('scroll',position,true);addEventListener('resize',position);observer=new ResizeObserver(position);if(holder.current)observer.observe(holder.current)
